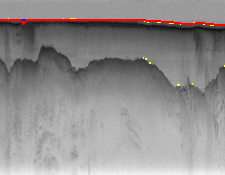
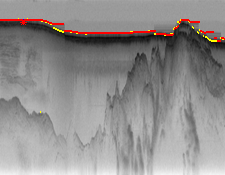
bug fixes

diff --git a/part2/polar.py b/part2/polar.py
@@ -27,8 +27,9 @@ def get_distance_distr(row1, len):
     for row in range(0,edge_strength.shape[0]):
         #diff.append(1/(2**(abs(row1 - row)+1)))
         dist = abs(row1-row)
+        #diff.append((len - dist)/len)
         diff.append(1/(dist+1))
-    #diff = diff/sum(diff)
+    diff = diff/sum(diff)
     return diff
 
 # draw a "line" on an image (actually just plot the given y-coordinates
@@ -105,7 +106,7 @@ def get_hmm_rows(edge_strength):
     for t in range(1, edge_strength.shape[1]):
         for row in range(edge_strength.shape[0]):
             distance_distr = get_distance_distr(row, edge_strength.shape[0])
-            transition = -log(distance_distr/sum(distance_distr))
+            transition = -log(distance_distr)
             V_table[row,t] = min(V_table[:,t-1]+transition+emission_probs[row, t])
             
     ridge = V_table.argmin(axis=0)
@@ -123,7 +124,7 @@ def get_hmm_rows(edge_strength):
     for t in range(1, edge_strength.shape[1]):
             for row in range(median_air_ice_row+10, edge_strength.shape[0]):
                 distance_distr = get_distance_distr(row, edge_strength.shape[0])
-                transition = -log(distance_distr/sum(distance_distr))
+                transition = -log(distance_distr)
                 V_table_ir[row, t] = min(V_table_ir[:,t-1]+transition+emission_probs[row, t])
     ridge1 = V_table_ir.argmin(axis=0)
     return (ridge,ridge1)
@@ -143,13 +144,13 @@ def get_feedback_rows_air_ice(edge_strength, row_coord, col_coord):
     for t in range(col_coord-1, 0,-1):
         for row in range(edge_strength.shape[0]-1,-1, -1):
             distance_distr = get_distance_distr(row, edge_strength.shape[0])
-            transition = -log(distance_distr/sum(distance_distr))
+            transition = -log(distance_distr)
             V_table[row,t] = min(V_table[:,t+1]+transition+emission_probs[row, t])
     
     for t in range(col_coord+1, edge_strength.shape[1]):
         for row in range(edge_strength.shape[0]):
             distance_distr = get_distance_distr(row, edge_strength.shape[0])
-            transition = -log(distance_distr/sum(distance_distr))
+            transition = -log(distance_distr)
             V_table[row,t] = min(V_table[:,t-1]+transition+emission_probs[row, t])
             
     ridge = []
@@ -174,13 +175,13 @@ def get_feedback_rows_ice_rock(edge_strength, row_coord, col_coord, air_ice):
     for t in range(col_coord-1, 0,-1):
         for row in range(edge_strength.shape[0]-1, median_airice+10, -1):
             distance_distr = get_distance_distr(row, edge_strength.shape[0])
-            transition = -log(distance_distr/sum(distance_distr))
+            transition = -log(distance_distr)
             V_table[row,t] = min(V_table[:,t+1]+transition+emission_probs[row, t])
     
     for t in range(col_coord+1, edge_strength.shape[1]):
         for row in range(median_airice+10, edge_strength.shape[0]):
             distance_distr = get_distance_distr(row, edge_strength.shape[0])
-            transition = -log(distance_distr/sum(distance_distr))
+            transition = -log(distance_distr)
             V_table[row,t] = min(V_table[:,t-1]+transition+emission_probs[row, t])
             
     ridge = []
